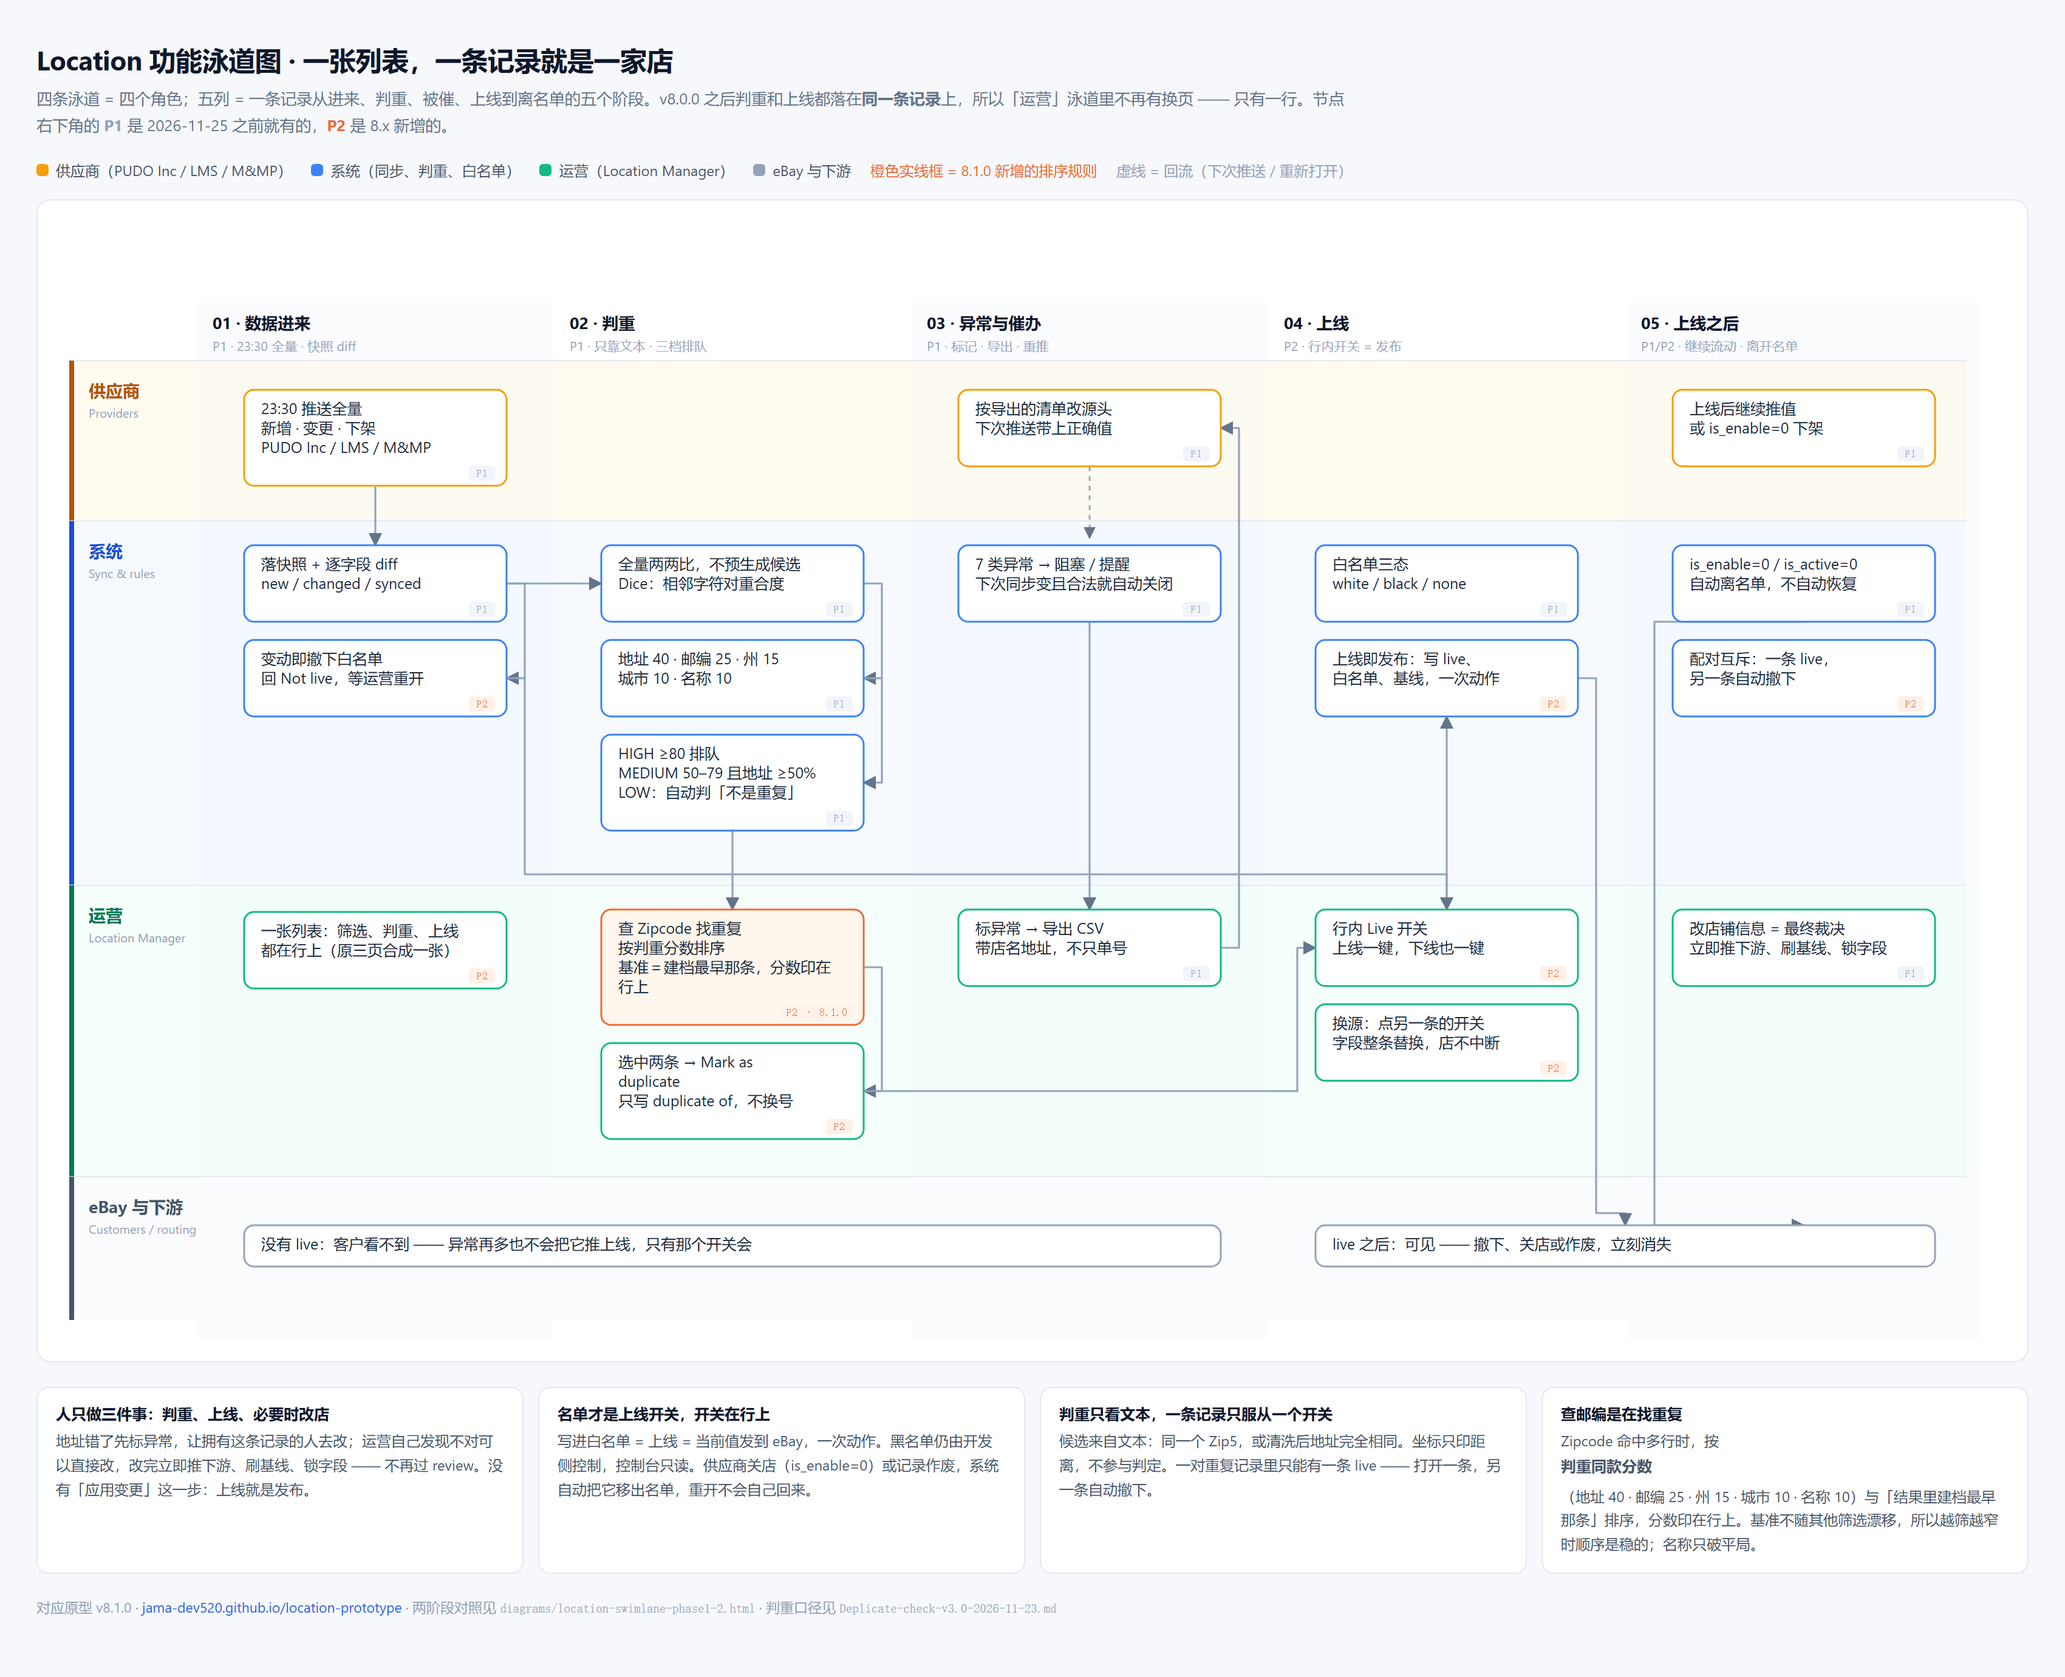
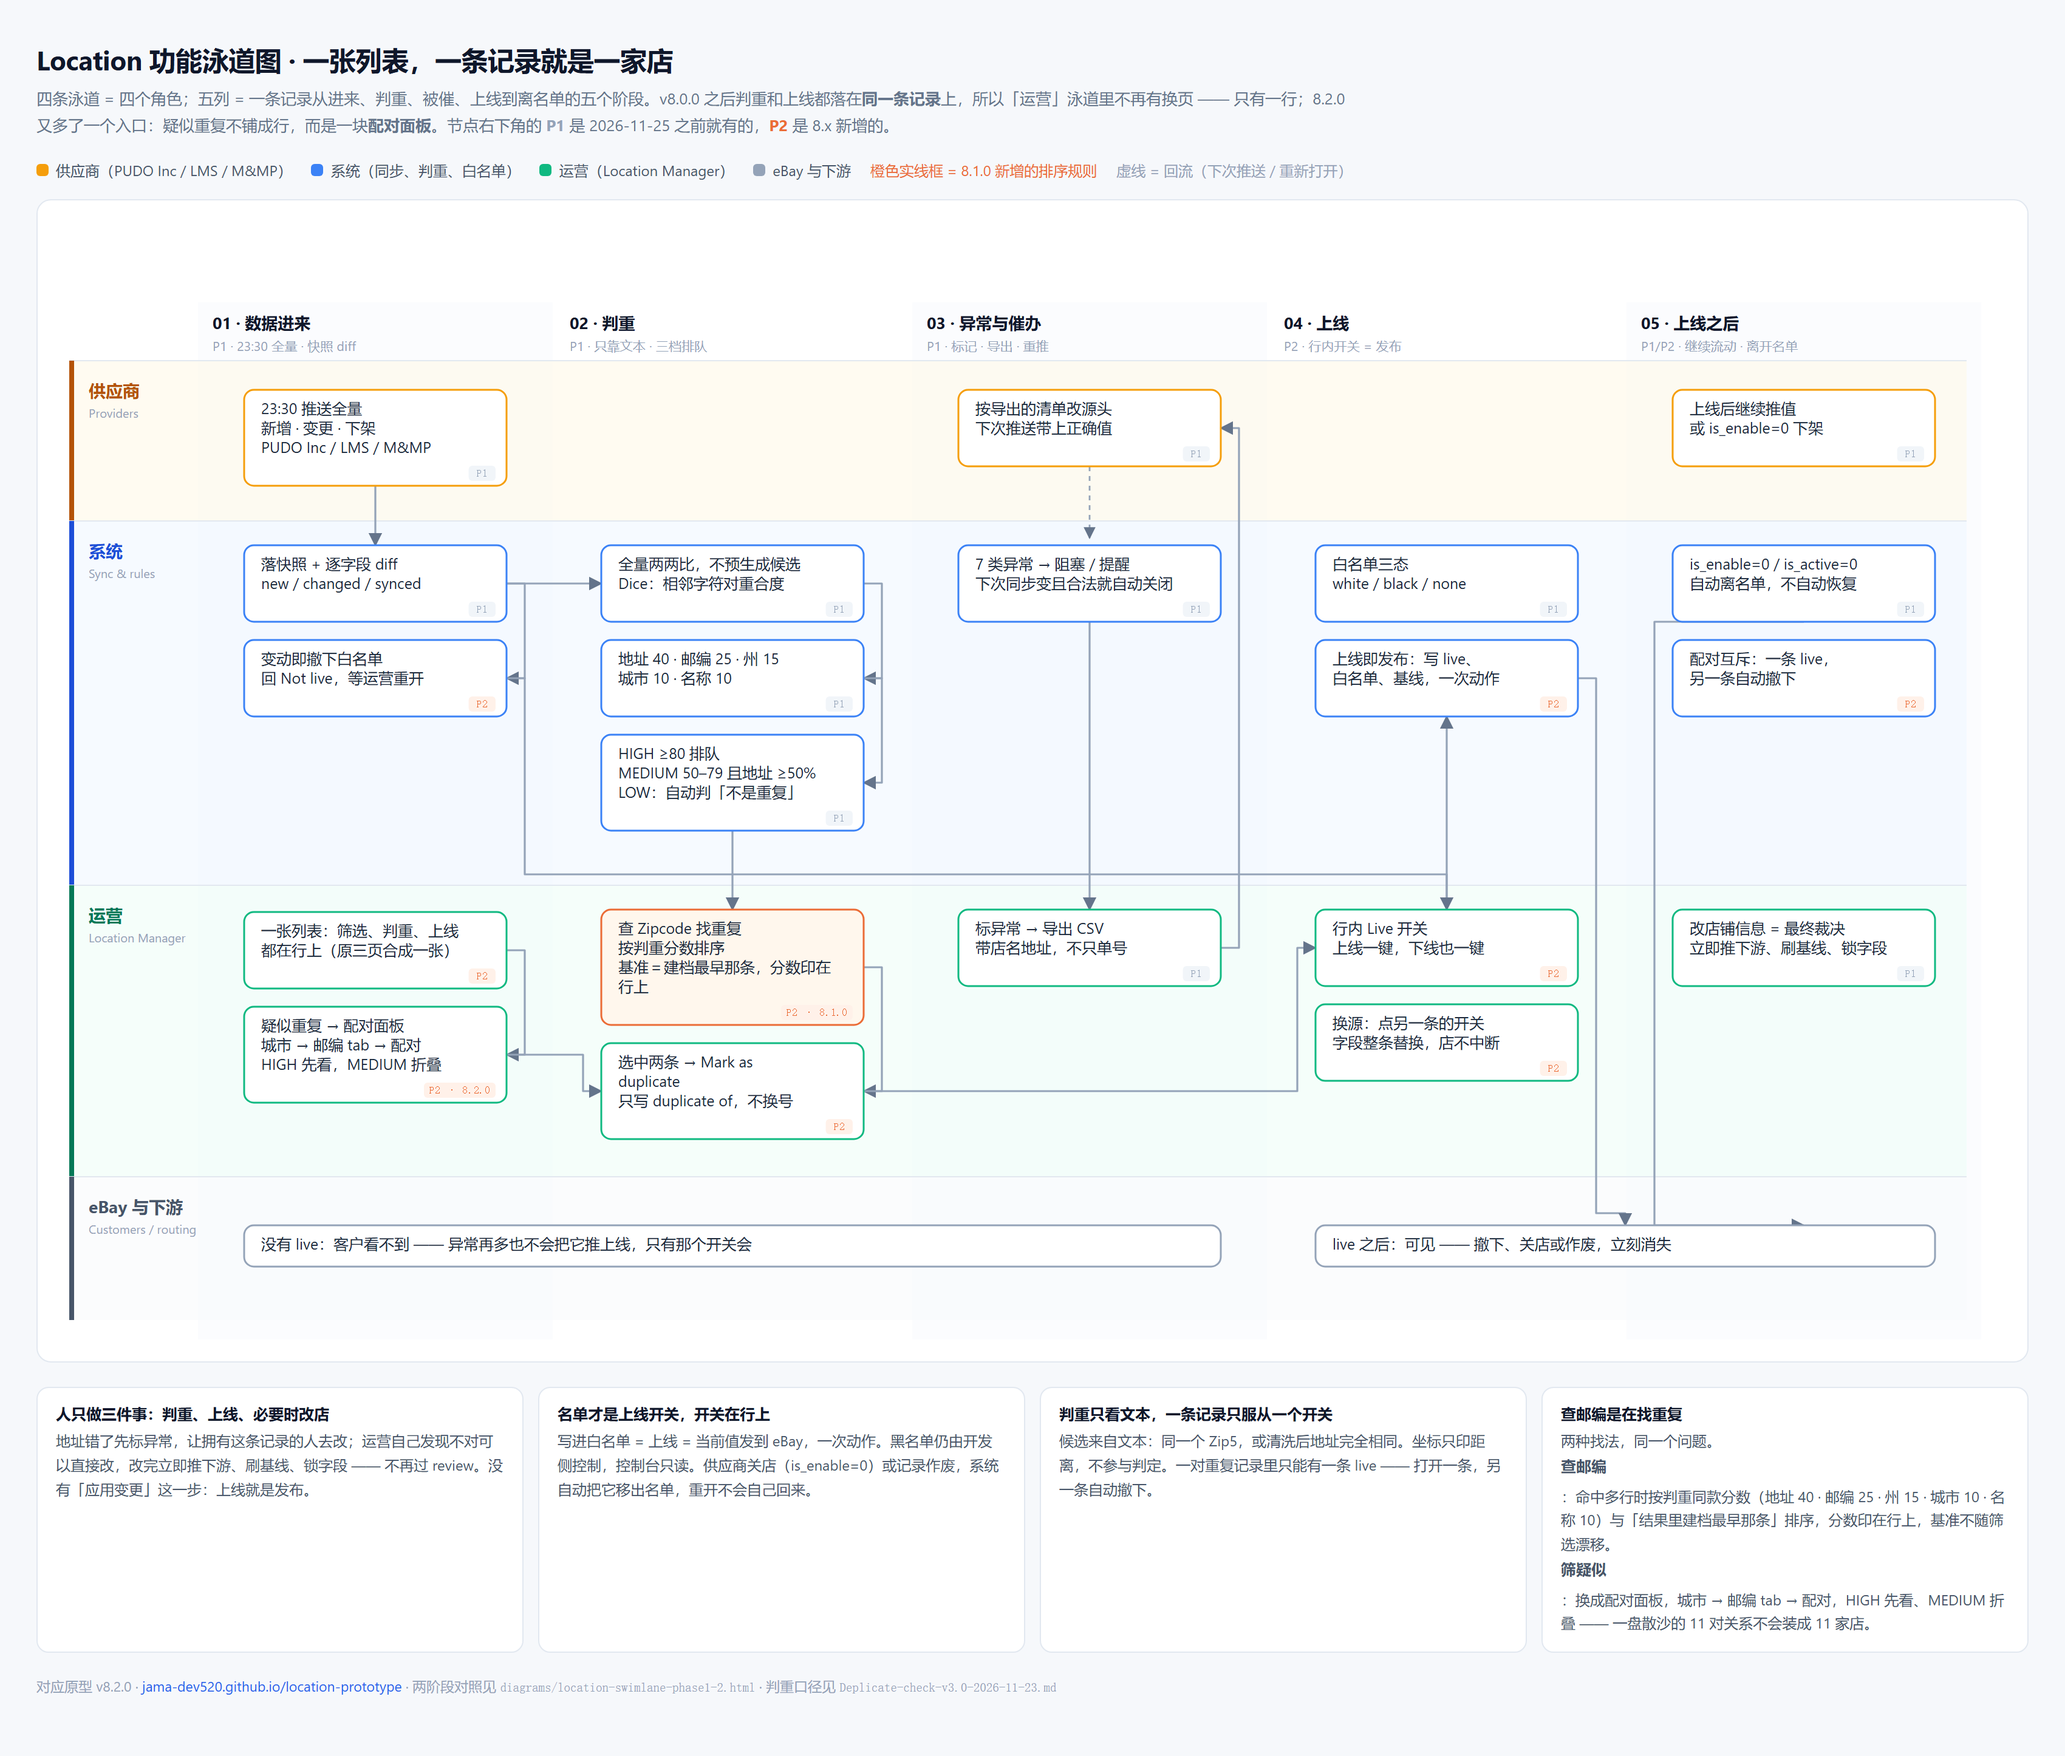
swimlane v8.2.0: the suspected-duplicate pair board

diff --git a/location-swimlane.html b/location-swimlane.html
@@ -3,7 +3,7 @@
 <head>
 <meta charset="utf-8">
 <meta name="viewport" content="width=device-width, initial-scale=1">
-<title>Location 功能泳道图 · v8.1.0</title>
+<title>Location 功能泳道图 · v8.2.0</title>
 <style>
   :root { color-scheme: light; }
   * { box-sizing: border-box; }
@@ -41,7 +41,7 @@
 <div class="wrap">
   <header>
     <h1>Location 功能泳道图 · 一张列表，一条记录就是一家店</h1>
-    <p class="sub">四条泳道 = 四个角色；五列 = 一条记录从进来、判重、被催、上线到离名单的五个阶段。v8.0.0 之后判重和上线都落在<b>同一条记录</b>上，所以「运营」泳道里不再有换页 —— 只有一行。节点右下角的 <b style="color:#94A3B8">P1</b> 是 2026-11-25 之前就有的，<b style="color:#EB6C36">P2</b> 是 8.x 新增的。</p>
+    <p class="sub">四条泳道 = 四个角色；五列 = 一条记录从进来、判重、被催、上线到离名单的五个阶段。v8.0.0 之后判重和上线都落在<b>同一条记录</b>上，所以「运营」泳道里不再有换页 —— 只有一行；8.2.0 又多了一个入口：疑似重复不铺成行，而是一块<b>配对面板</b>。节点右下角的 <b style="color:#94A3B8">P1</b> 是 2026-11-25 之前就有的，<b style="color:#EB6C36">P2</b> 是 8.x 新增的。</p>
   </header>
 
   <div class="legend">
@@ -108,6 +108,8 @@
 <path d="M 970.0 609.5 L 985.0 609.5 L 985.0 181.5 L 970.0 181.5" fill="none" stroke="#94A3B8" stroke-width="1.6" marker-end="url(#ar)" stroke-linejoin="round"/>
 <path d="M 382.0 387.5 L 397.0 387.5 L 397.0 549.0 L 1156.0 549.0 L 1156.0 578.0" fill="none" stroke="#94A3B8" stroke-width="1.6" marker-end="url(#ar)" stroke-linejoin="round"/>
 <path d="M 1450.0 341.0 L 1327.0 341.0 L 1327.0 838.0 L 1450.0 838.0" fill="none" stroke="#94A3B8" stroke-width="1.6" marker-end="url(#ar)" stroke-linejoin="round"/>
+<path d="M 382.0 611.5 L 397.0 611.5 L 397.0 697.5 L 382.0 697.5" fill="none" stroke="#94A3B8" stroke-width="1.6" marker-end="url(#ar)" stroke-linejoin="round"/>
+<path d="M 382.0 697.5 L 445.0 697.5 L 445.0 727.5 L 460.0 727.5" fill="none" stroke="#94A3B8" stroke-width="1.6" marker-end="url(#ar)" stroke-linejoin="round"/>
 <path d="M 862.0 213.0 L 862.0 272.0" fill="none" stroke="#94A3B8" stroke-width="1.4" stroke-dasharray="4 4" marker-end="url(#ar)"/>
 <rect x="166.0" y="150.0" width="216.0" height="79.0" rx="8" fill="#FFFFFF" stroke="#F59E0B" stroke-width="1.5"/>
 <text x="180.0" y="170.0" font-size="12.5" fill="#1E293B">23:30 推送全量</text>
@@ -181,6 +183,12 @@
 <text x="180.0" y="616.0" font-size="12.5" fill="#1E293B">都在行上（原三页合成一张）</text>
 <rect x="350.8" y="626.5" width="22.2" height="12.5" rx="3" fill="#FFF1E9" stroke="none"/>
 <text x="361.9" y="635.5" font-size="8.5" text-anchor="middle" letter-spacing="0.04em" font-family="ui-monospace,Menlo,monospace" fill="#EB6C36">P2</text>
+<rect x="166.0" y="658.0" width="216.0" height="79.0" rx="8" fill="#FFFFFF" stroke="#10B981" stroke-width="1.5"/>
+<text x="180.0" y="678.0" font-size="12.5" fill="#1E293B">疑似重复 → 配对面板</text>
+<text x="180.0" y="694.0" font-size="12.5" fill="#1E293B">城市 → 邮编 tab → 配对</text>
+<text x="180.0" y="710.0" font-size="12.5" fill="#1E293B">HIGH 先看，MEDIUM 折叠</text>
+<rect x="314.0" y="720.5" width="59.0" height="12.5" rx="3" fill="#FFF1E9" stroke="none"/>
+<text x="343.5" y="729.5" font-size="8.5" text-anchor="middle" letter-spacing="0.04em" font-family="ui-monospace,Menlo,monospace" fill="#EB6C36">P2 · 8.2.0</text>
 <rect x="460.0" y="578.0" width="216.0" height="95.0" rx="8" fill="#FFF7ED" stroke="#EB6C36" stroke-width="1.5"/>
 <text x="474.0" y="598.0" font-size="12.5" fill="#1E293B">查 Zipcode 找重复</text>
 <text x="474.0" y="614.0" font-size="12.5" fill="#1E293B">按判重分数排序</text>
@@ -236,12 +244,12 @@
     </div>
     <div class="note">
       <b>查邮编是在找重复</b>
-      <p>Zipcode 命中多行时，按<b>判重同款分数</b>（地址 40 · 邮编 25 · 州 15 · 城市 10 · 名称 10）与「结果里建档最早那条」排序，分数印在行上。基准不随其他筛选漂移，所以越筛越窄时顺序是稳的；名称只破平局。</p>
+      <p>两种找法，同一个问题。<b>查邮编</b>：命中多行时按判重同款分数（地址 40 · 邮编 25 · 州 15 · 城市 10 · 名称 10）与「结果里建档最早那条」排序，分数印在行上，基准不随筛选漂移。<b>筛疑似</b>：换成配对面板，城市 → 邮编 tab → 配对，HIGH 先看、MEDIUM 折叠 —— 一盘散沙的 11 对关系不会装成 11 家店。</p>
     </div>
   </div>
 
   <footer>
-    对应原型 v8.1.0 ·
+    对应原型 v8.2.0 ·
     <a href="https://jama-dev520.github.io/location-prototype/" target="_blank" rel="noopener">jama-dev520.github.io/location-prototype</a>
     · 两阶段对照见 <code>diagrams/location-swimlane-phase1-2.html</code> · 判重口径见 <code>Deplicate-check-v3.0-2026-11-23.md</code>
   </footer>

diff --git a/swimlane.html b/swimlane.html
@@ -3,7 +3,7 @@
 <head>
 <meta charset="utf-8">
 <meta name="viewport" content="width=device-width, initial-scale=1">
-<title>Location 功能泳道图 · v8.1.0</title>
+<title>Location 功能泳道图 · v8.2.0</title>
 <style>
   :root { color-scheme: light; }
   * { box-sizing: border-box; }
@@ -41,7 +41,7 @@
 <div class="wrap">
   <header>
     <h1>Location 功能泳道图 · 一张列表，一条记录就是一家店</h1>
-    <p class="sub">四条泳道 = 四个角色；五列 = 一条记录从进来、判重、被催、上线到离名单的五个阶段。v8.0.0 之后判重和上线都落在<b>同一条记录</b>上，所以「运营」泳道里不再有换页 —— 只有一行。节点右下角的 <b style="color:#94A3B8">P1</b> 是 2026-11-25 之前就有的，<b style="color:#EB6C36">P2</b> 是 8.x 新增的。</p>
+    <p class="sub">四条泳道 = 四个角色；五列 = 一条记录从进来、判重、被催、上线到离名单的五个阶段。v8.0.0 之后判重和上线都落在<b>同一条记录</b>上，所以「运营」泳道里不再有换页 —— 只有一行；8.2.0 又多了一个入口：疑似重复不铺成行，而是一块<b>配对面板</b>。节点右下角的 <b style="color:#94A3B8">P1</b> 是 2026-11-25 之前就有的，<b style="color:#EB6C36">P2</b> 是 8.x 新增的。</p>
   </header>
 
   <div class="legend">
@@ -108,6 +108,8 @@
 <path d="M 970.0 609.5 L 985.0 609.5 L 985.0 181.5 L 970.0 181.5" fill="none" stroke="#94A3B8" stroke-width="1.6" marker-end="url(#ar)" stroke-linejoin="round"/>
 <path d="M 382.0 387.5 L 397.0 387.5 L 397.0 549.0 L 1156.0 549.0 L 1156.0 578.0" fill="none" stroke="#94A3B8" stroke-width="1.6" marker-end="url(#ar)" stroke-linejoin="round"/>
 <path d="M 1450.0 341.0 L 1327.0 341.0 L 1327.0 838.0 L 1450.0 838.0" fill="none" stroke="#94A3B8" stroke-width="1.6" marker-end="url(#ar)" stroke-linejoin="round"/>
+<path d="M 382.0 611.5 L 397.0 611.5 L 397.0 697.5 L 382.0 697.5" fill="none" stroke="#94A3B8" stroke-width="1.6" marker-end="url(#ar)" stroke-linejoin="round"/>
+<path d="M 382.0 697.5 L 445.0 697.5 L 445.0 727.5 L 460.0 727.5" fill="none" stroke="#94A3B8" stroke-width="1.6" marker-end="url(#ar)" stroke-linejoin="round"/>
 <path d="M 862.0 213.0 L 862.0 272.0" fill="none" stroke="#94A3B8" stroke-width="1.4" stroke-dasharray="4 4" marker-end="url(#ar)"/>
 <rect x="166.0" y="150.0" width="216.0" height="79.0" rx="8" fill="#FFFFFF" stroke="#F59E0B" stroke-width="1.5"/>
 <text x="180.0" y="170.0" font-size="12.5" fill="#1E293B">23:30 推送全量</text>
@@ -181,6 +183,12 @@
 <text x="180.0" y="616.0" font-size="12.5" fill="#1E293B">都在行上（原三页合成一张）</text>
 <rect x="350.8" y="626.5" width="22.2" height="12.5" rx="3" fill="#FFF1E9" stroke="none"/>
 <text x="361.9" y="635.5" font-size="8.5" text-anchor="middle" letter-spacing="0.04em" font-family="ui-monospace,Menlo,monospace" fill="#EB6C36">P2</text>
+<rect x="166.0" y="658.0" width="216.0" height="79.0" rx="8" fill="#FFFFFF" stroke="#10B981" stroke-width="1.5"/>
+<text x="180.0" y="678.0" font-size="12.5" fill="#1E293B">疑似重复 → 配对面板</text>
+<text x="180.0" y="694.0" font-size="12.5" fill="#1E293B">城市 → 邮编 tab → 配对</text>
+<text x="180.0" y="710.0" font-size="12.5" fill="#1E293B">HIGH 先看，MEDIUM 折叠</text>
+<rect x="314.0" y="720.5" width="59.0" height="12.5" rx="3" fill="#FFF1E9" stroke="none"/>
+<text x="343.5" y="729.5" font-size="8.5" text-anchor="middle" letter-spacing="0.04em" font-family="ui-monospace,Menlo,monospace" fill="#EB6C36">P2 · 8.2.0</text>
 <rect x="460.0" y="578.0" width="216.0" height="95.0" rx="8" fill="#FFF7ED" stroke="#EB6C36" stroke-width="1.5"/>
 <text x="474.0" y="598.0" font-size="12.5" fill="#1E293B">查 Zipcode 找重复</text>
 <text x="474.0" y="614.0" font-size="12.5" fill="#1E293B">按判重分数排序</text>
@@ -236,12 +244,12 @@
     </div>
     <div class="note">
       <b>查邮编是在找重复</b>
-      <p>Zipcode 命中多行时，按<b>判重同款分数</b>（地址 40 · 邮编 25 · 州 15 · 城市 10 · 名称 10）与「结果里建档最早那条」排序，分数印在行上。基准不随其他筛选漂移，所以越筛越窄时顺序是稳的；名称只破平局。</p>
+      <p>两种找法，同一个问题。<b>查邮编</b>：命中多行时按判重同款分数（地址 40 · 邮编 25 · 州 15 · 城市 10 · 名称 10）与「结果里建档最早那条」排序，分数印在行上，基准不随筛选漂移。<b>筛疑似</b>：换成配对面板，城市 → 邮编 tab → 配对，HIGH 先看、MEDIUM 折叠 —— 一盘散沙的 11 对关系不会装成 11 家店。</p>
     </div>
   </div>
 
   <footer>
-    对应原型 v8.1.0 ·
+    对应原型 v8.2.0 ·
     <a href="https://jama-dev520.github.io/location-prototype/" target="_blank" rel="noopener">jama-dev520.github.io/location-prototype</a>
     · 两阶段对照见 <code>diagrams/location-swimlane-phase1-2.html</code> · 判重口径见 <code>Deplicate-check-v3.0-2026-11-23.md</code>
   </footer>
